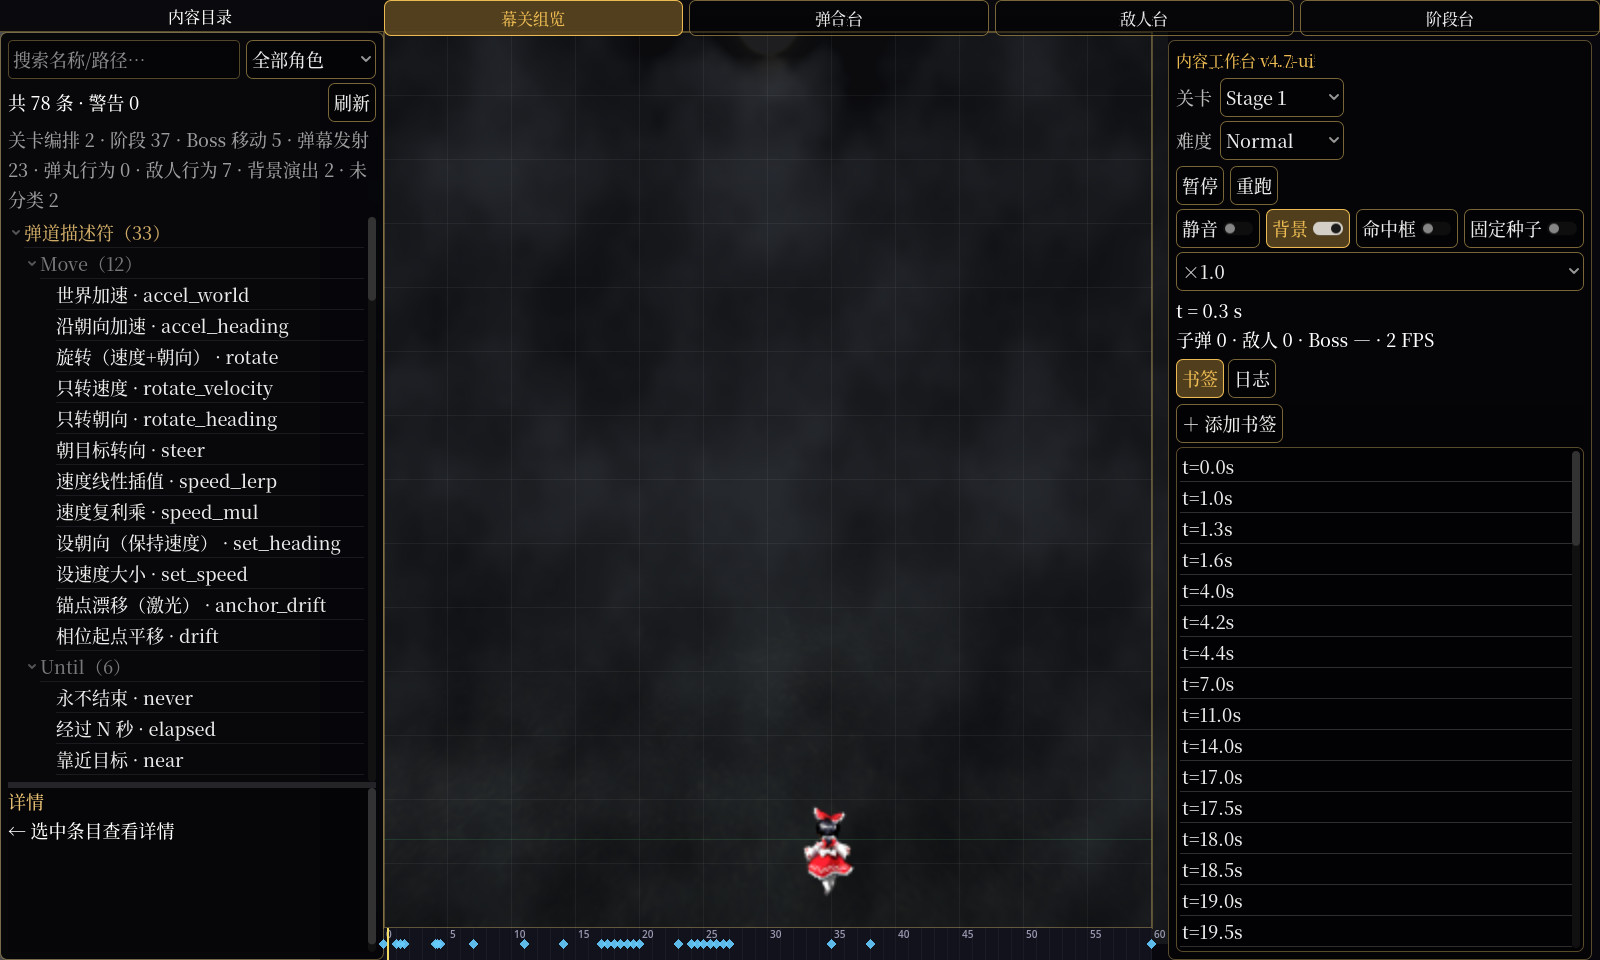
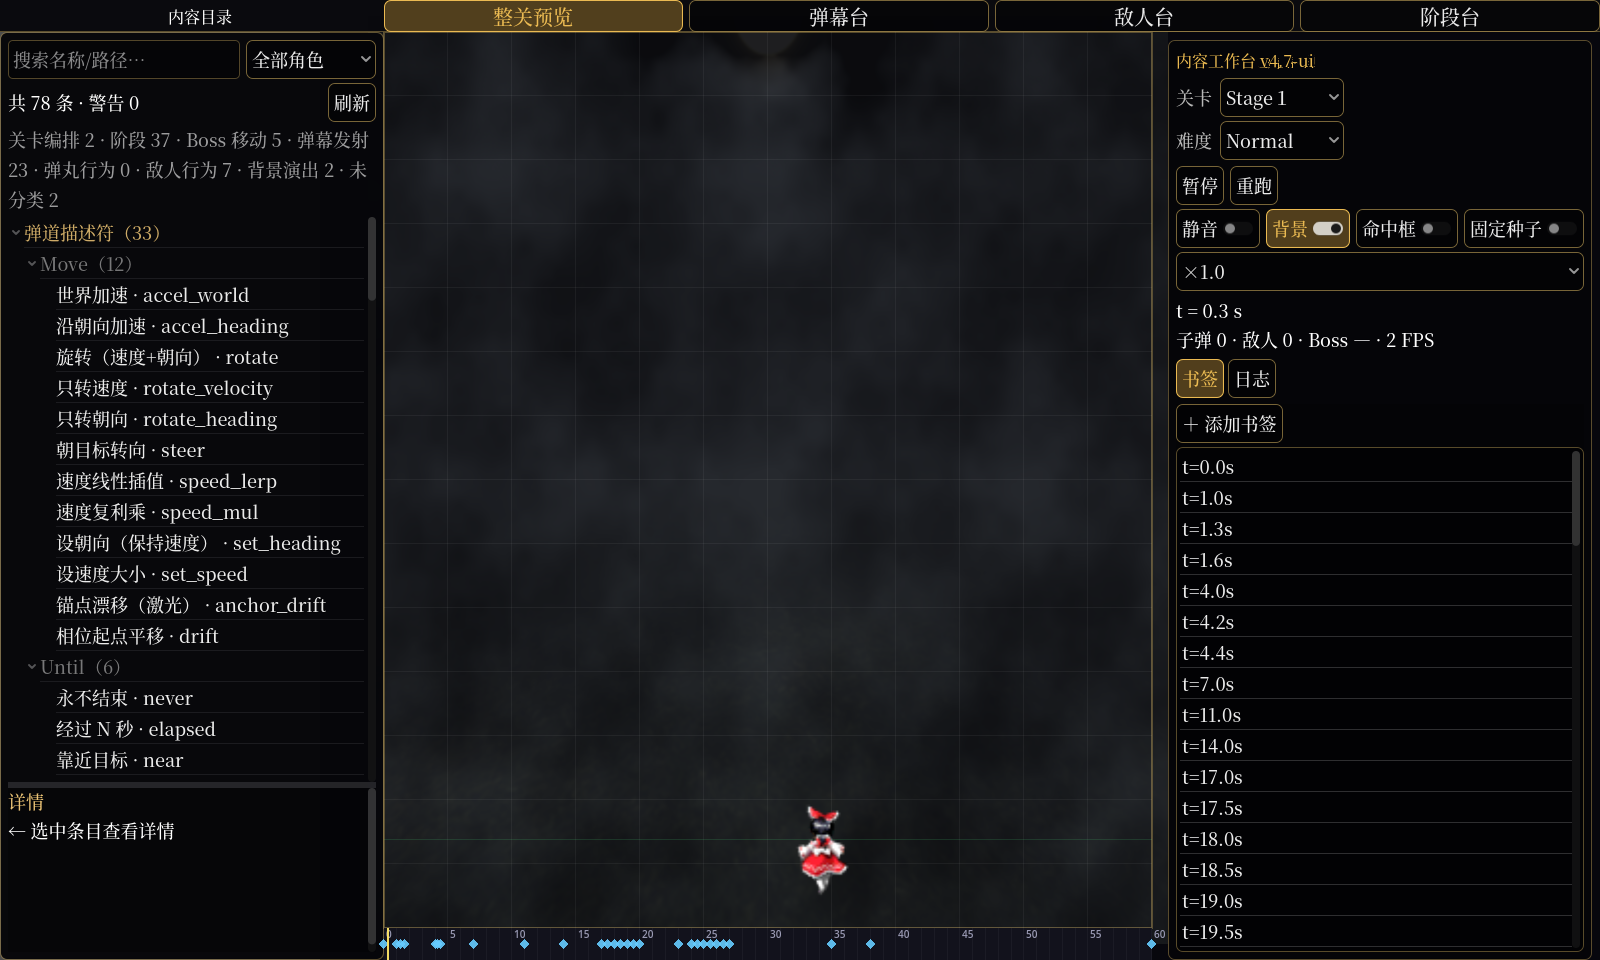
fix(workbench): 页签字号 16→20，修 16px 宋体糊字
- 16px 思源宋体下「整/幕/预」笔画挤成一团，看起来像「幕关预览/弹合台」
- 页签 16→20；单独压掉上下 content margin，20px 仍落 32px 顶栏
- Bar/Tab 高度正好 32，Workbench 场地仍 32..928
- 更新 1600/1280 实拍；全量 834 / 7758，verify 七步全绿

diff --git a/docs/BEST_PRACTICES_LOG.md b/docs/BEST_PRACTICES_LOG.md
@@ -26,12 +26,13 @@
 
 ## 索引
 
-> 共 37 条（本文件留最近 37 条，其余在 `docs/archive/`；本段由 `tools/log_archive.py` 生成，手改会被覆盖）。
+> 共 38 条（本文件留最近 38 条，其余在 `docs/archive/`；本段由 `tools/log_archive.py` 生成，手改会被覆盖）。
 
 - 2026-10-18 — D6 修正：canvas_transform + bench UI CanvasLayer
 - 2026-10-18 — D6：1600 布局 + 384 常驻左栏
 - 2026-10-18 — D3 第五批：PreviewPlayback / PreviewBookmarks
 - 2026-10-18 — D3 第四批：PreviewStageLoader
+- 2026-10-18 — 页签字号 16→20（16px 宋体密笔画糊成别的字）
 - 2026-10-18 — Ghost 活动范围/初始点与真自机对齐
 - 2026-10-18 — Workbench 与游戏场地同坐标（顶栏 36→32）
 - 2026-10-18 — 创作台页签对齐 + 快捷键
@@ -102,6 +103,12 @@
 - 背景实例由 loader 持有，Workbench 通过 `background()` 读取；不再在各处维护 `_background`。
 - Workbench 523 → 483；`_restart`/选项回调只剩“调 loader + 日志”。
 - 全量 832 / 7742，verify 七步全绿。
+
+### 2026-10-18 — 页签字号 16→20（16px 宋体密笔画糊成别的字）
+
+- 现象：顶栏「整关预览 / 弹幕台」在 16px 思源宋体下，整/幕/预的笔画挤成一团，看起来像「幕关预览 / 弹合台」。
+- 修法：页签字号 16→20；给页签单独压掉上下 content margin（0），让 20px 仍正好落在 32px 顶栏内；全局 Button 样式不动。
+- 现在 Bar/Tab 高度正好 32，Workbench 场地仍 32..928；全量 834 / 7758，verify 七步全绿。
 
 ### 2026-10-18 — Ghost 活动范围/初始点与真自机对齐
 

diff --git a/docs/TEST_INDEX.md b/docs/TEST_INDEX.md
@@ -19,7 +19,7 @@
 ./tools/verify.sh --fast                             # 快速冒烟（~8s，不全量）
 ```
 
-**现状**：119 脚本 / **834 用例（834 通过 / 0 红 —— ✅ 全绿）/ 7758 断言 / 57.045s** / 19 orphans / **0 pending**。
+**现状**：119 脚本 / **834 用例（834 通过 / 0 红 —— ✅ 全绿）/ 7758 断言 / 56.994s** / 19 orphans / **0 pending**。
 
 ## 分层
 
